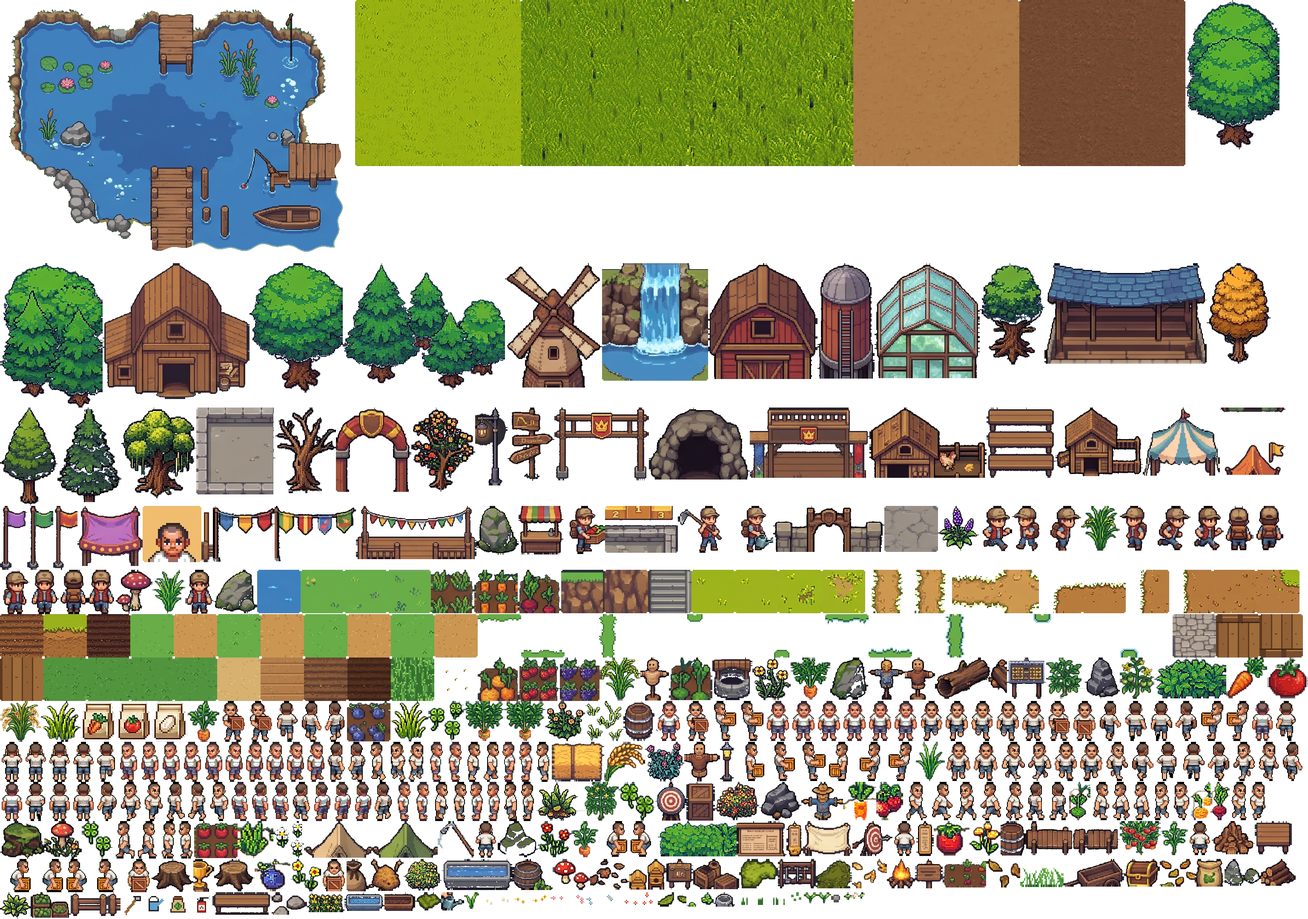
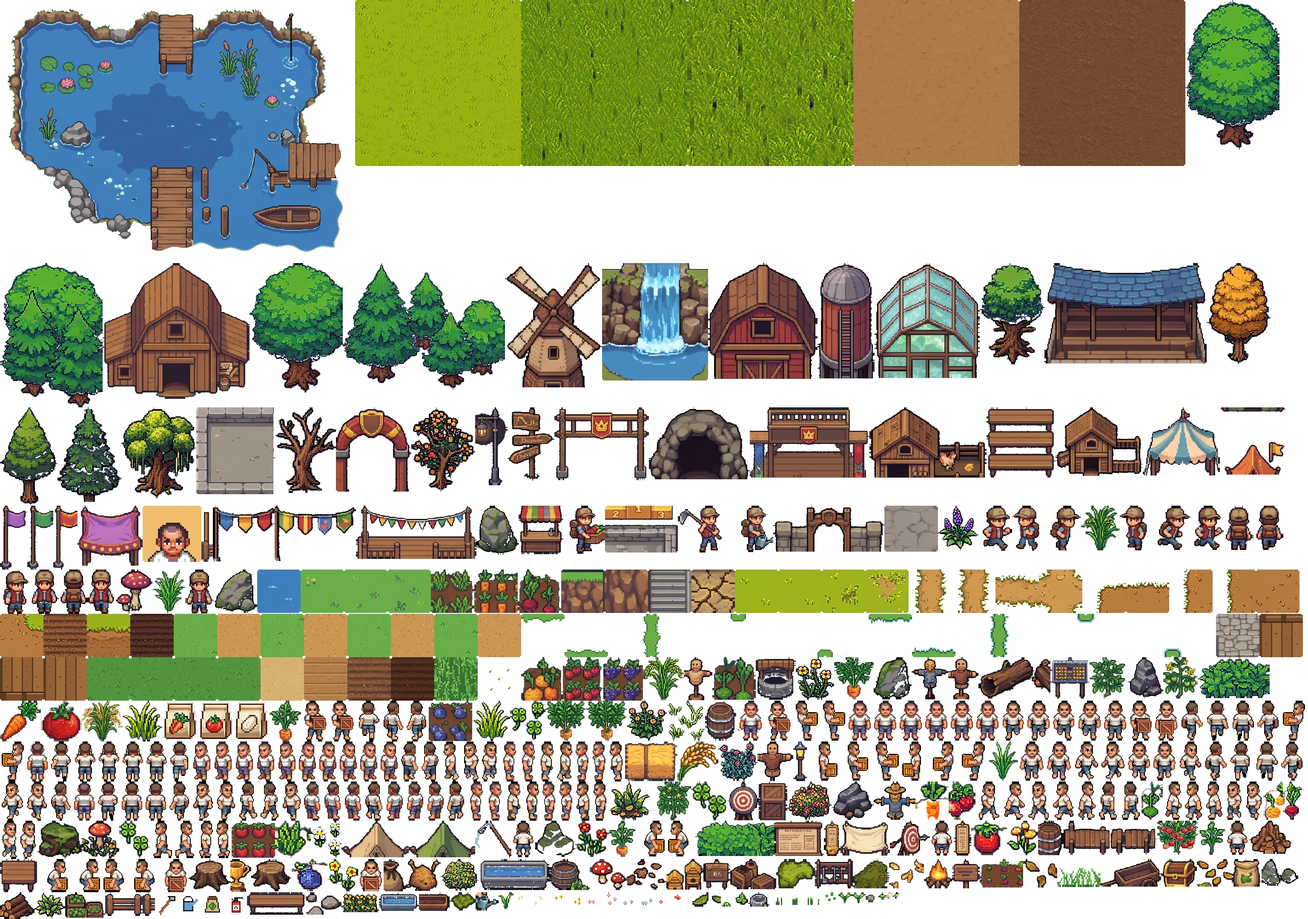
Ô đất khô cằn dùng hình đất nứt nẻ của người dùng
- assets/source/dry_soil.png -> tex_dry (cắt vuông giữa ảnh, giữ nét pixel)
- Ô chưa cuốc / vừa thu hoạch vẽ bằng hình này trong khung bo góc, bỏ vết
  nứt tự vẽ

Claude-Session: https://claude.ai/code/session_01BbaPnx3cHQqz9kHRAFFL9w

diff --git a/client/src/main.ts b/client/src/main.ts
@@ -316,21 +316,10 @@ function drawPlot(x: number, y: number, c: number, state: number, seed: number, 
   ctx.save();
   roundRect(x + g, y + g, w, w, r); ctx.clip();
   if (state === 0) {
-    // barren: pale, dusty, cracked
-    ctx.fillStyle = '#c0915b';
-    ctx.fillRect(x, y, c, c);
-    ctx.fillStyle = 'rgba(255,240,200,0.18)';
-    ctx.fillRect(x, y, c, c * 0.4);
-    ctx.strokeStyle = 'rgba(110,70,35,0.75)';
-    ctx.lineWidth = 0.8;
-    for (let k = 0; k < 3; k++) {
-      let px = x + 4 + rnd(k) * (c - 8), py = y + 4 + rnd(k + 9) * (c - 8);
-      ctx.beginPath(); ctx.moveTo(px, py);
-      for (let j = 0; j < 3; j++) { px += (rnd(k * 7 + j) - 0.5) * 9; py += (rnd(k * 5 + j + 3) - 0.5) * 9; ctx.lineTo(px, py); }
-      ctx.stroke();
-    }
-    ctx.fillStyle = 'rgba(150,140,125,0.9)';
-    for (let k = 0; k < 2; k++) ctx.fillRect(x + 4 + rnd(k + 20) * (c - 8), y + 4 + rnd(k + 30) * (c - 8), 1.5, 1.2);
+    // barren: cracked dry soil (user asset)
+    const f = atlas.frames['tex_dry'];
+    if (f) ctx.drawImage(atlas.img, f[0], f[1], f[4], f[5], x + g, y + g, w, w);
+    else { ctx.fillStyle = '#c0915b'; ctx.fillRect(x, y, c, c); }
   } else {
     const f = atlas.frames[state === 2 ? 'gt_furrow_wet' : 'gt_furrow'];
     if (f) ctx.drawImage(atlas.img, f[0], f[1], f[4] * 0.75, f[5] * 0.75, x + g, y + g, w, w);

diff --git a/tools/build_assets.py b/tools/build_assets.py
@@ -1087,6 +1087,11 @@ def main():
     import crops_cut
     cp = crops_cut.build(RES, T)
     images.update(cp); native.update(cp)
+    # barren / cracked soil for empty plots (user asset)
+    ds = Image.open(os.path.join(ROOT, 'assets/source/dry_soil.png')).convert('RGBA')
+    side = min(ds.size)
+    ds = ds.crop(((ds.width - side) // 2, (ds.height - side) // 2, (ds.width + side) // 2, (ds.height + side) // 2))
+    images['tex_dry'] = ds.resize((T * RES, T * RES), Image.NEAREST); native.add('tex_dry')
     images.update(s4_tiles()); native.update(S4_TILES); native.add('gt_furrow_wet')
     # crops render as 1 tile
     for name in list(images):
